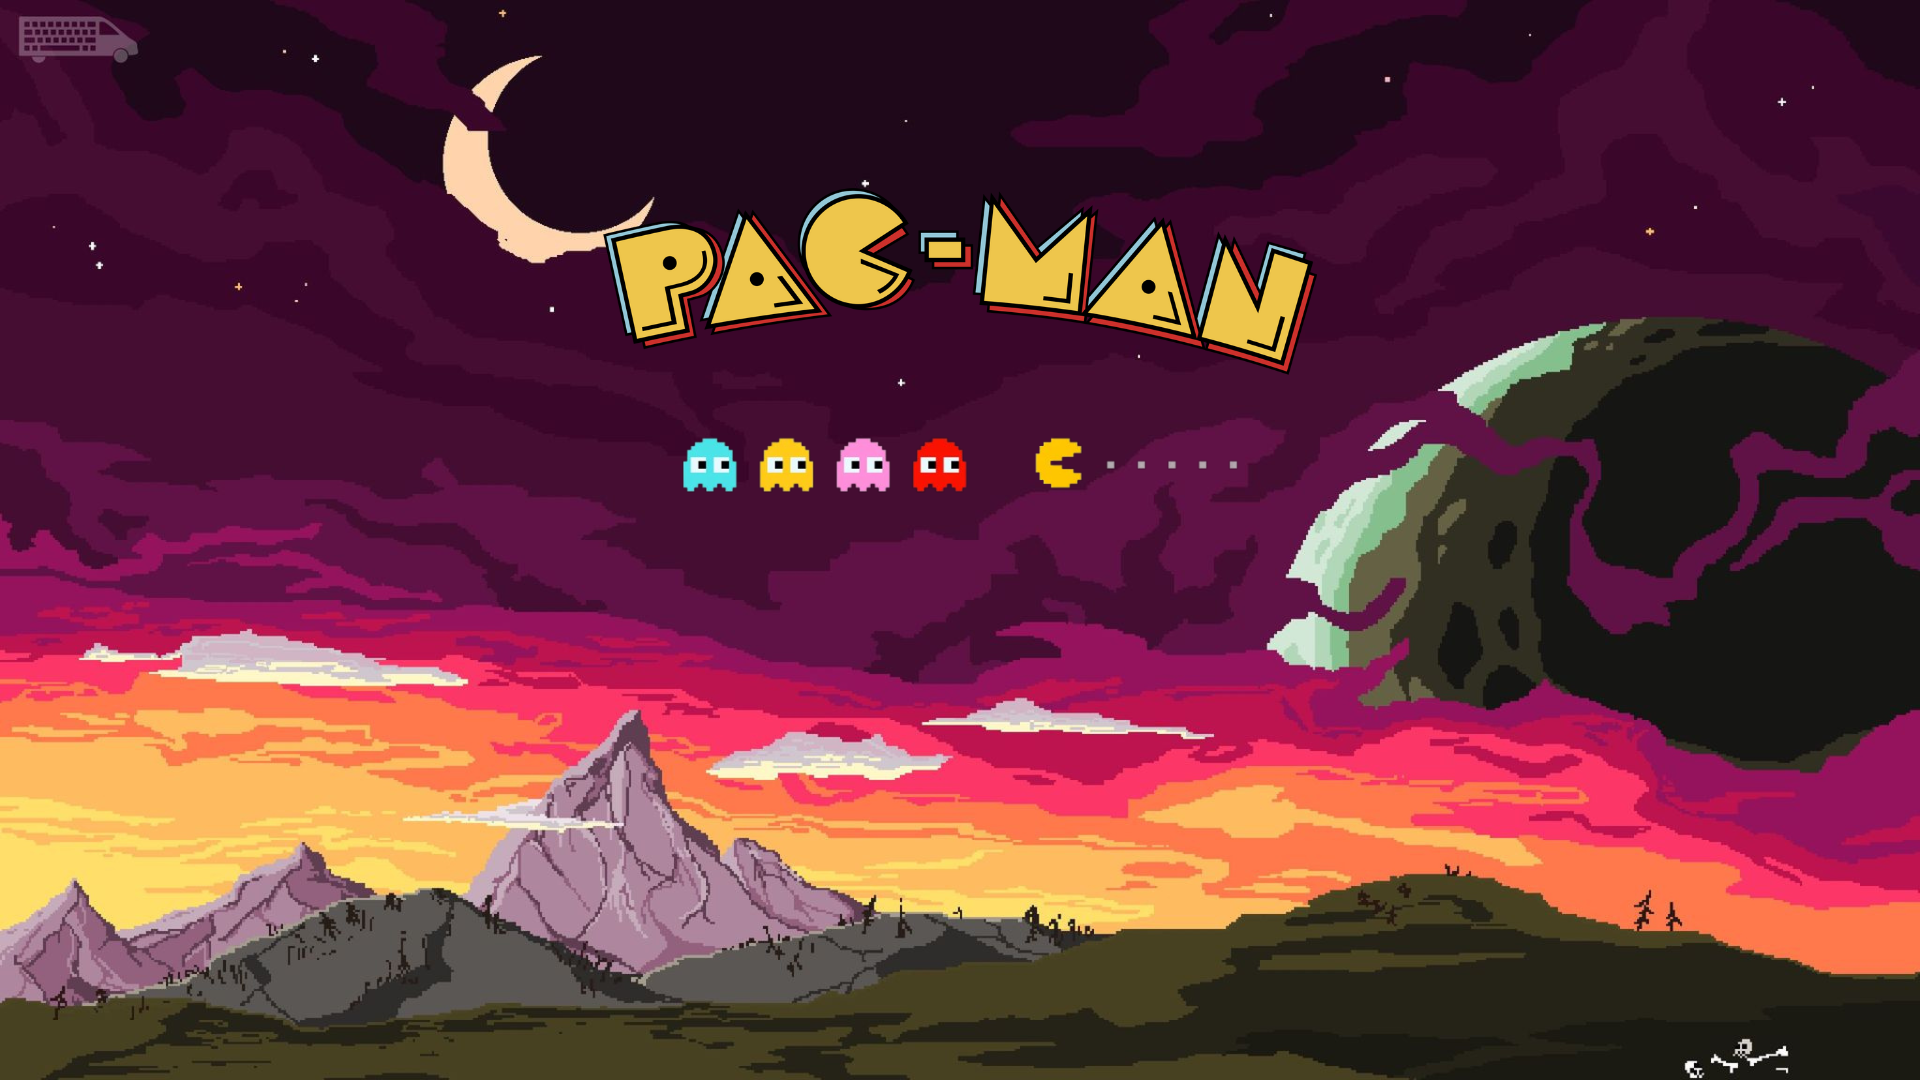
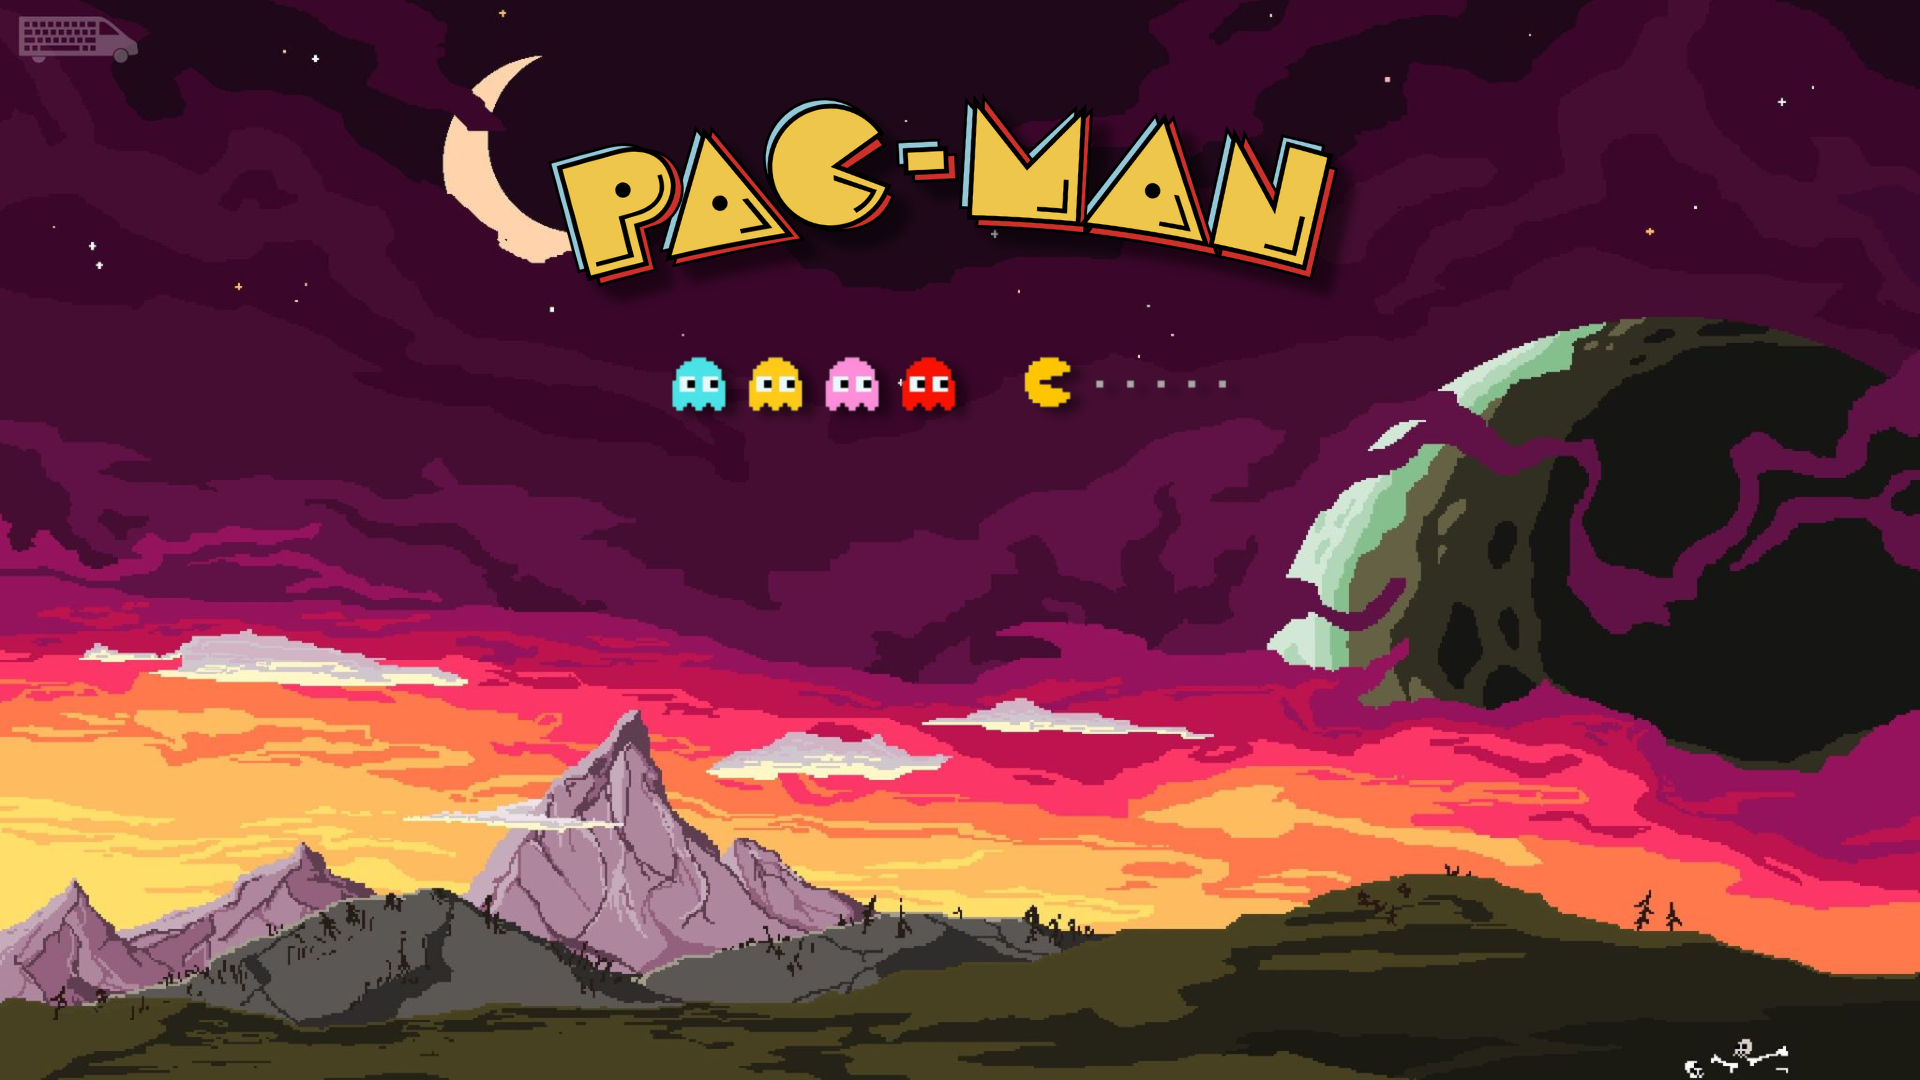
re design Background Home

Changed region(s): [[0.2812, 0.0917, 0.7188, 0.4583], [0.5312, 0.3361, 0.5625, 0.4583]]

diff --git a/src/main/java/nl/tudelft/jpacman/ui/PacManUI.java b/src/main/java/nl/tudelft/jpacman/ui/PacManUI.java
@@ -14,10 +14,8 @@ import javax.swing.JFrame;
 import javax.swing.JPanel;
 import javax.swing.WindowConstants;
 
-import javafx.event.ActionEvent;
-
 import javax.swing.*;
-import net.bytebuddy.asm.Advice.This;
+
 import nl.tudelft.jpacman.game.Game;
 import nl.tudelft.jpacman.ui.ScorePanel.ScoreFormatter;
 
@@ -128,14 +126,14 @@ public class PacManUI extends JFrame {
 
             @Override
             public void actionPerformed(java.awt.event.ActionEvent e) {
-                cardLayout.next(cardPanel);
+                cardPanel.add(GamePlay, "Second");
+                cardLayout.show(cardPanel, "Second");
             }
 
         });
         homeUI.setBackground("src\\main\\resources\\Homebackground1.png");
         homeUI.addButton(btnStart);
         cardPanel.add(homeUI, "First");
-        cardPanel.add(GamePlay, "Second");
 
         add(cardPanel);
         pack();
